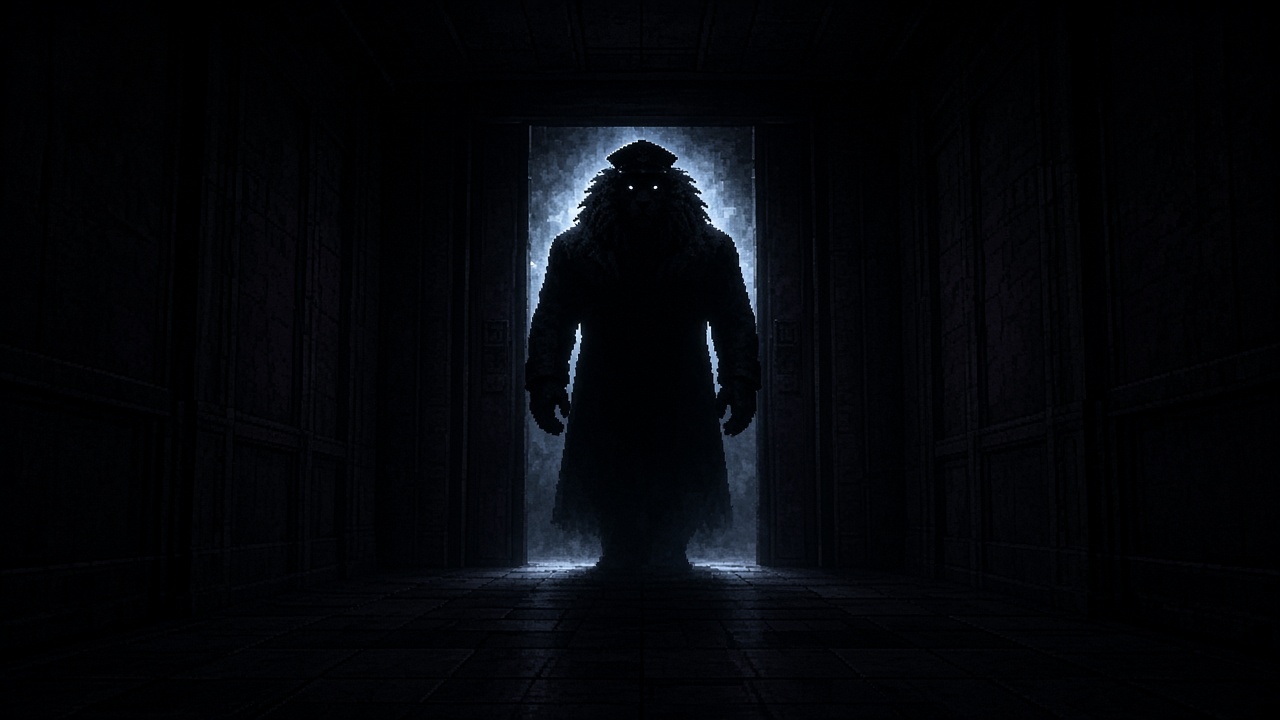
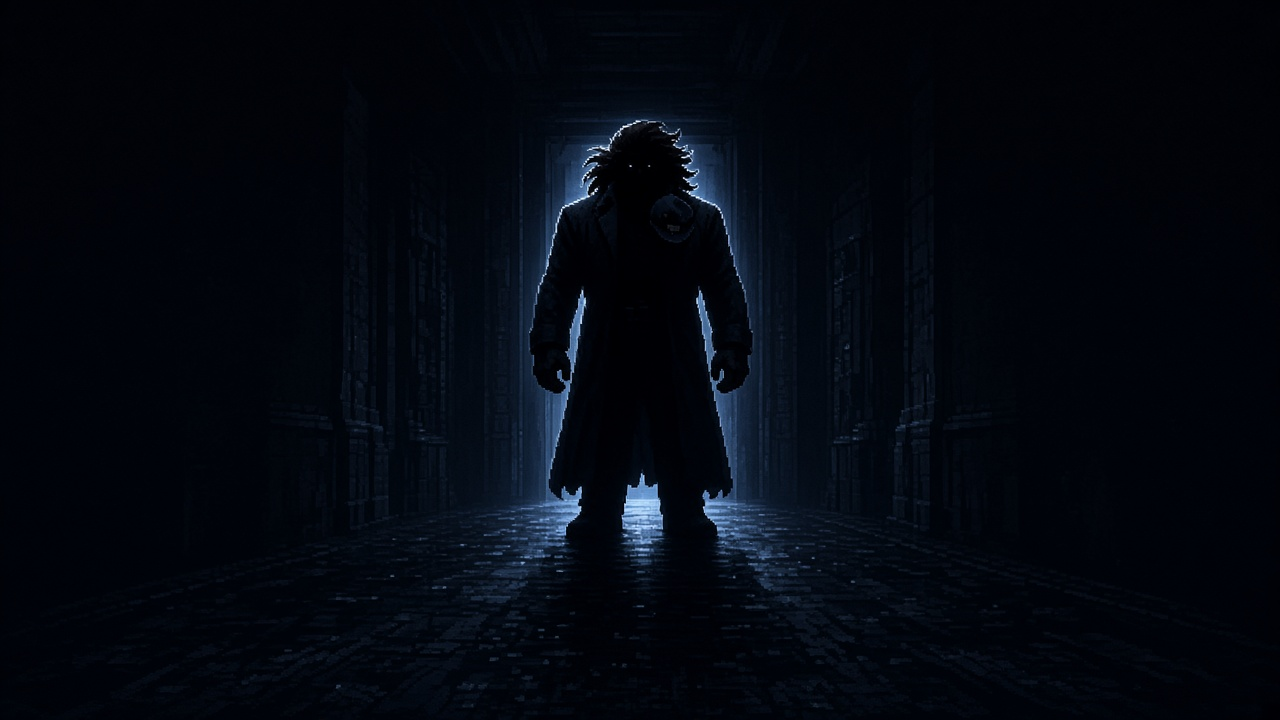
Leon silhouette v2: big human build, lion-mane hairstyle

diff --git a/art-src/trailer/c2/README.md b/art-src/trailer/c2/README.md
@@ -10,3 +10,5 @@
 | bear-chained-dark | 大噗噗 chained in a cage, dark |
 
 Ending #10: the old man at the right edge is Ken (option B design).
+
+Update: Alan chose Ken option B. Leon is a big-built human whose mane-like hairstyle hints at a lion (not an animal head); `leon-silhouette.png` is the new version, old lion-head one kept as `leon-silhouette-v1-lionhead.png`. Option C files are kept only as reference.
